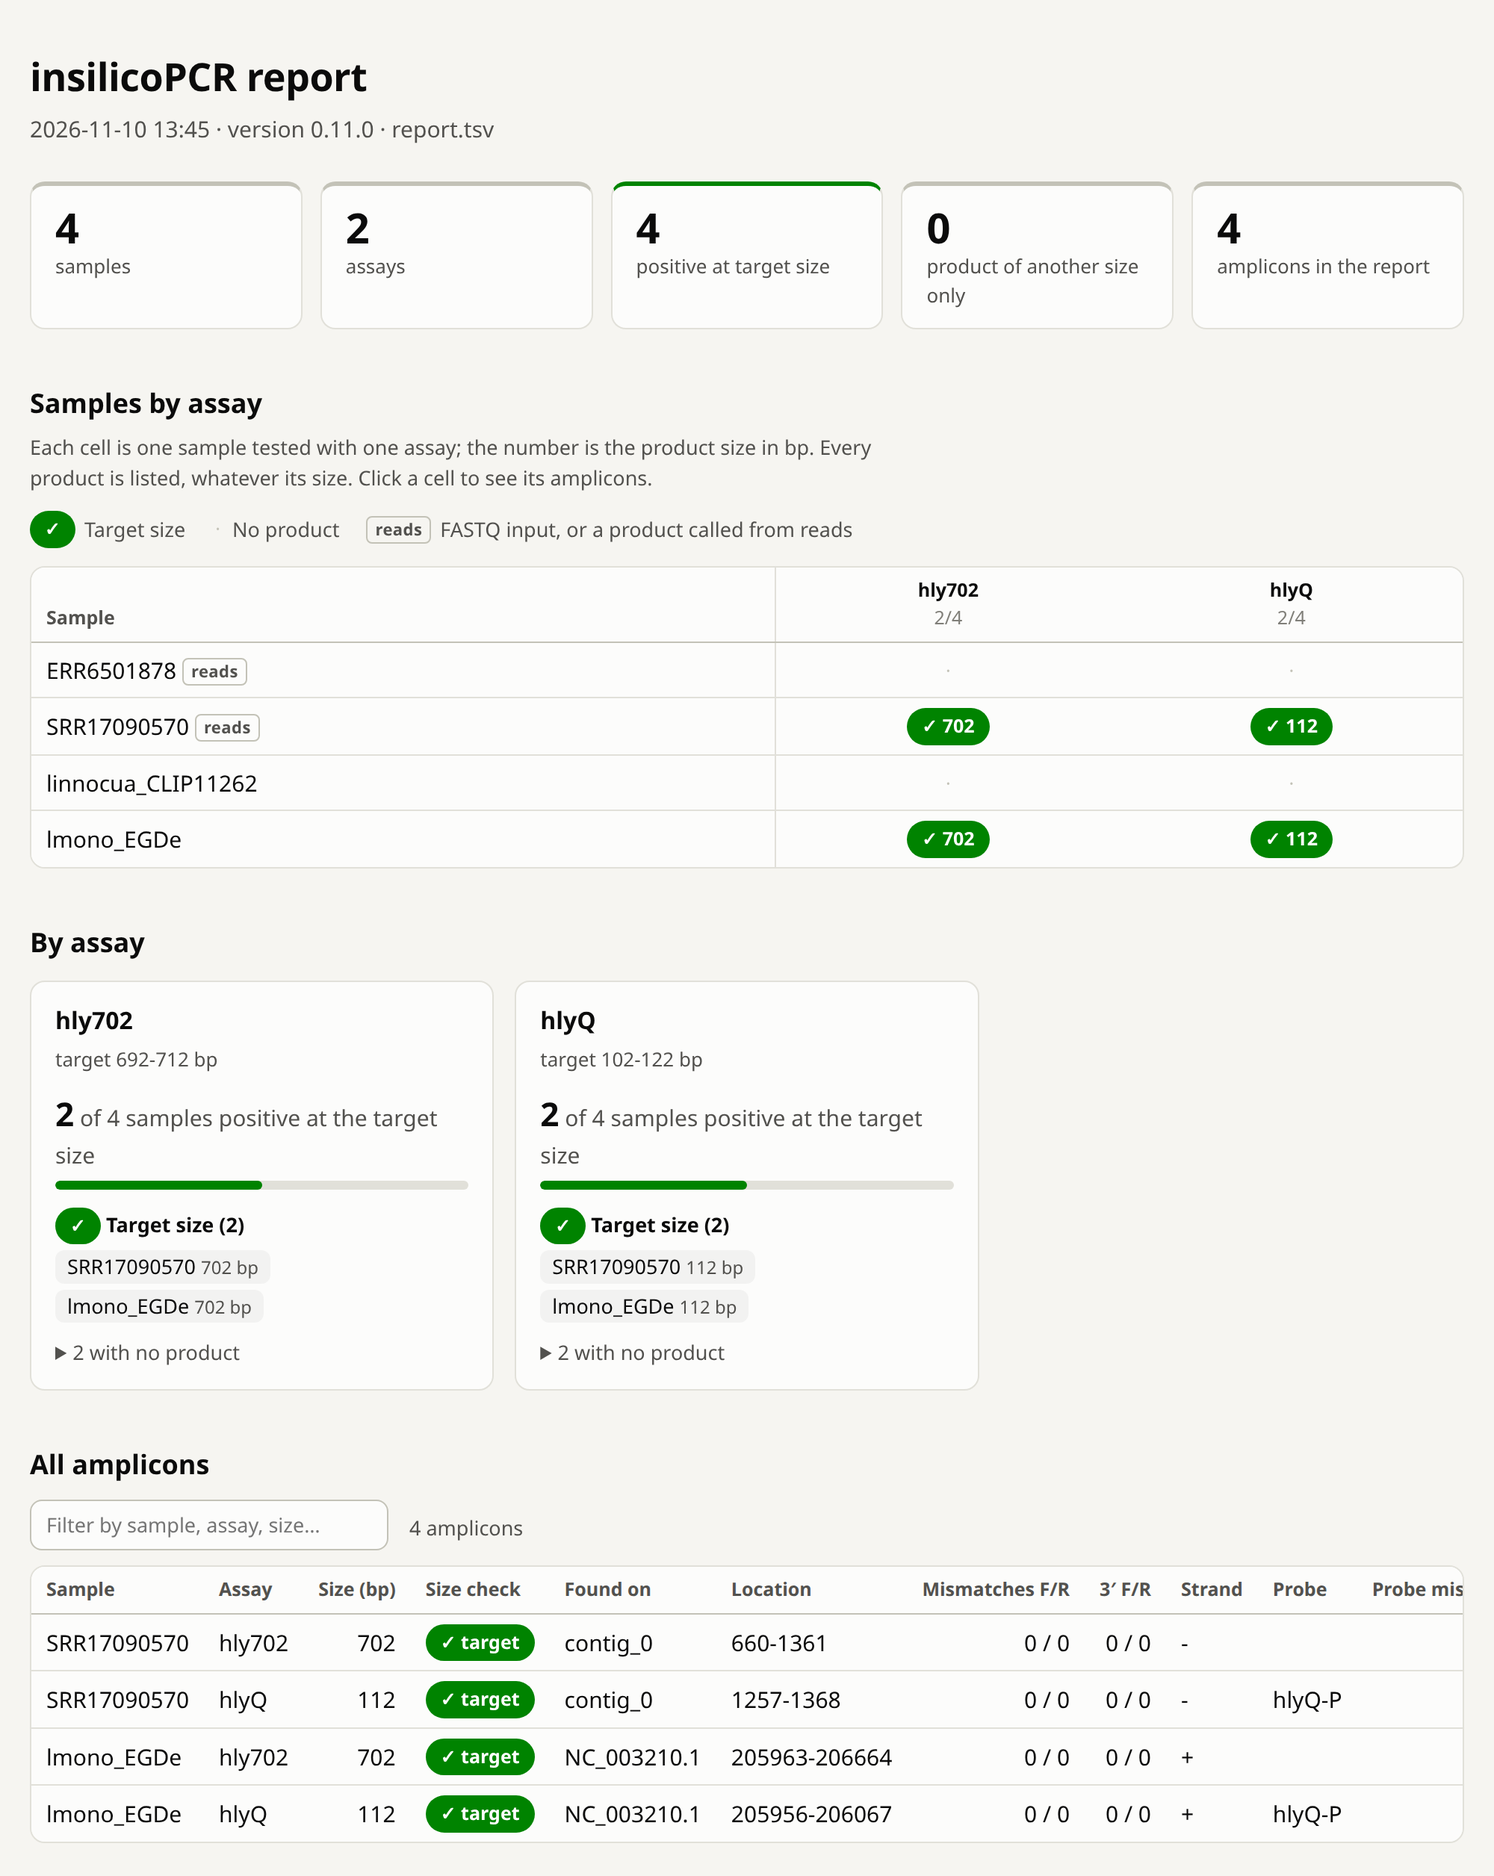
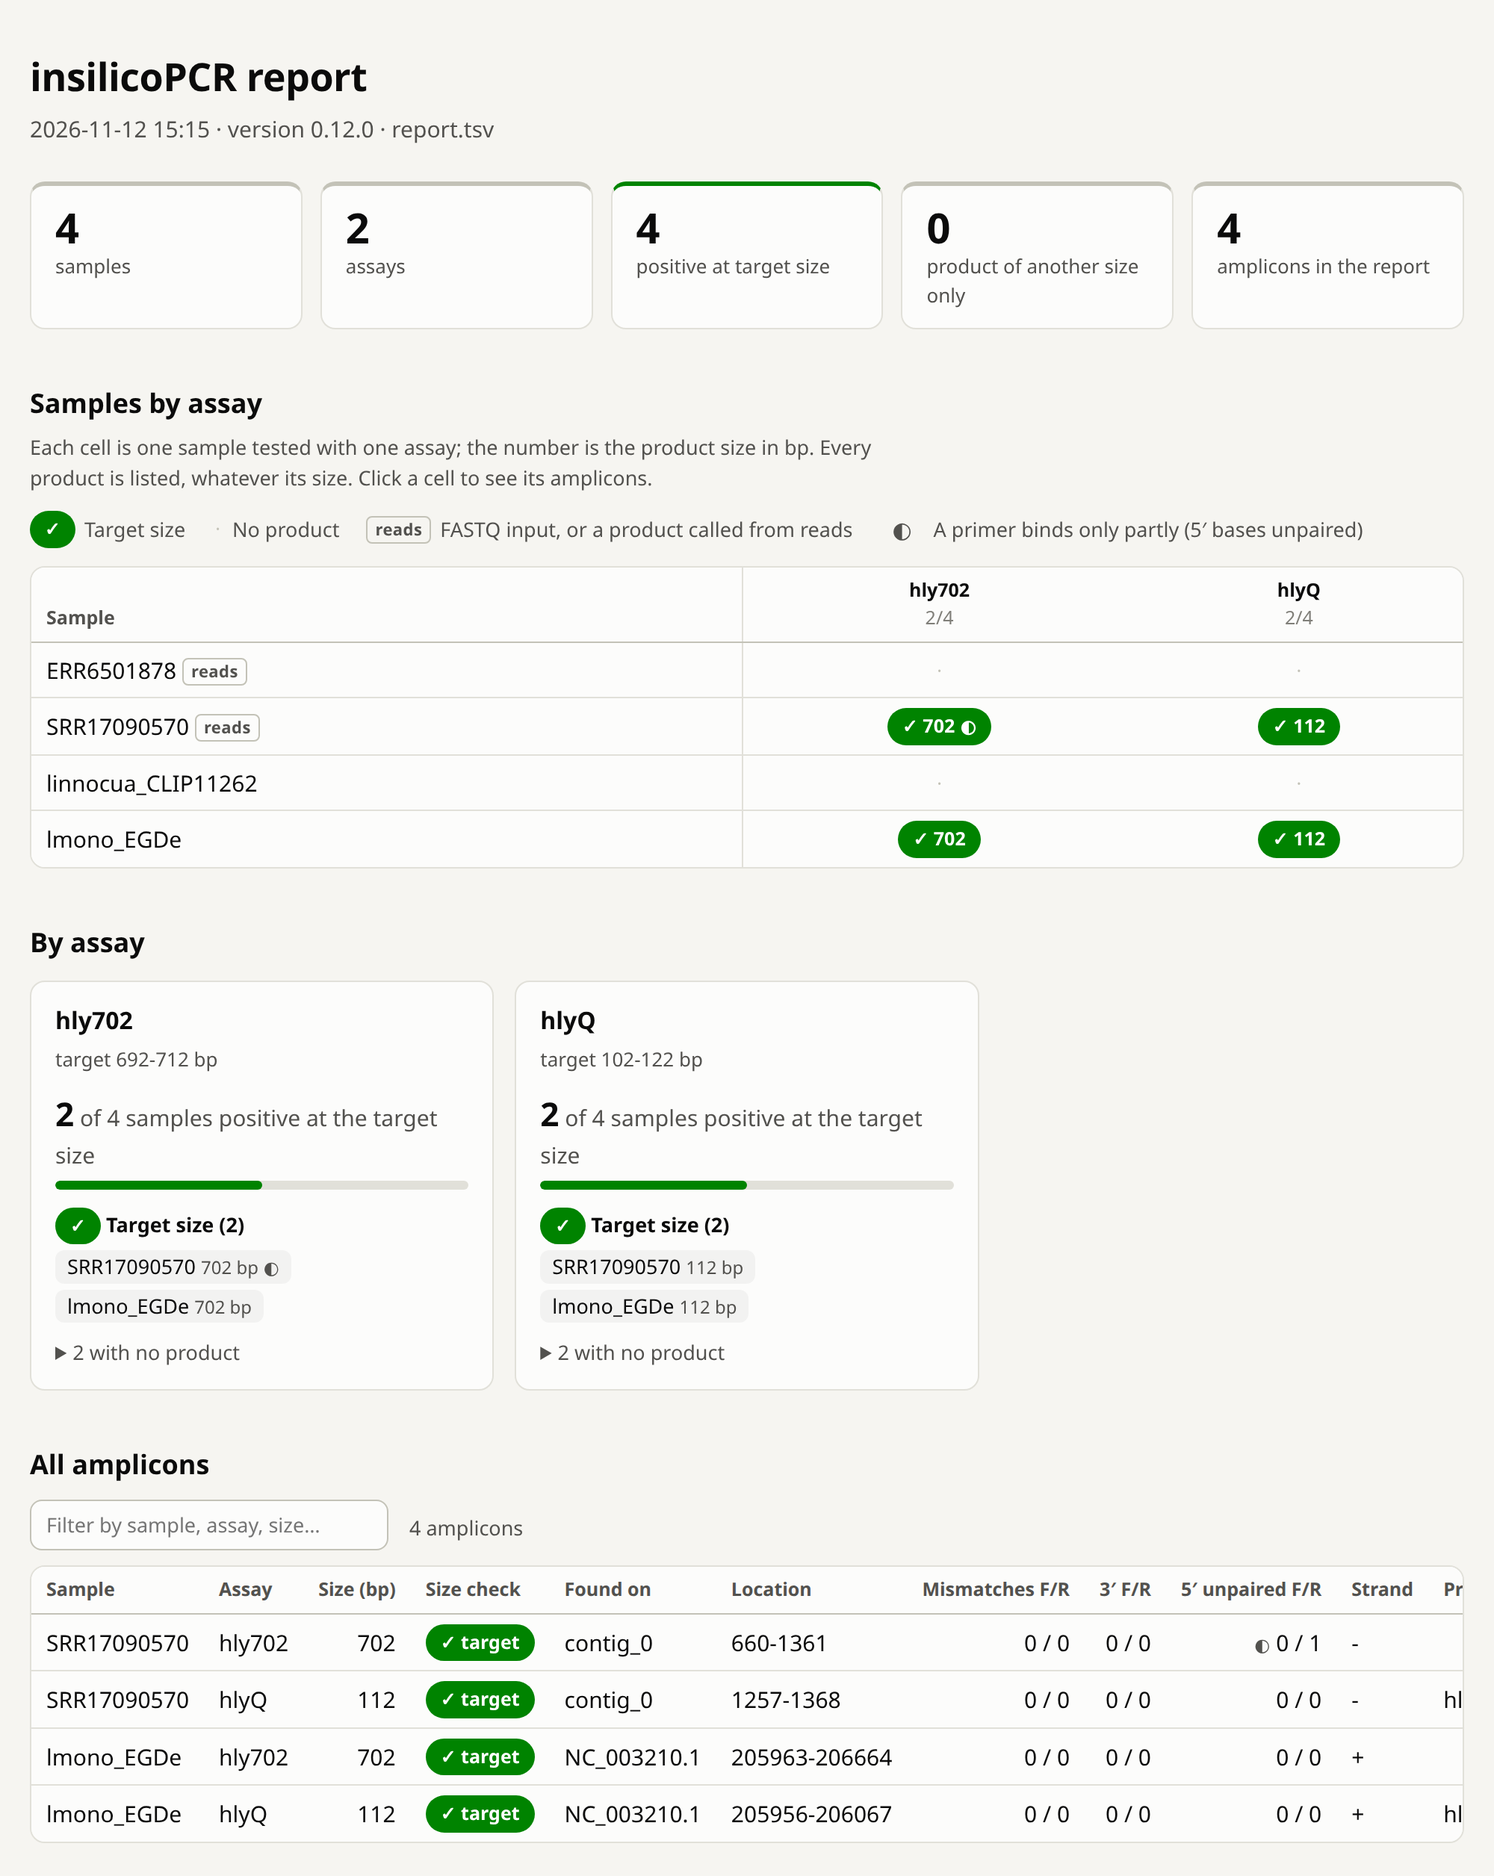
docs: bring the tutorial up to 0.12.0
Rerun the tutorial with 0.12.0 from a neutral path: the example report.tsv
and report.html gain the 5'-unaligned columns, and the HTML report picture
shows the partly bound hly702-R primer of SRR17090570 (one unpaired base at
the 5' end, the SNP the tutorial already pointed out). Products, sizes and
mismatch counts are unchanged.

diff --git a/docs/examples/tutorial/report.html b/docs/examples/tutorial/report.html
@@ -73,6 +73,8 @@ button.chip { cursor: pointer; } button.chip:hover, button.chip:focus-visible { 
 .chip.unchecked { color: var(--ink-3); min-width: 0; padding: 0; font-weight: 400; }
 .chip.none { color: var(--line-2); min-width: 0; padding: 0; font-weight: 400; }
 .chip sup { font-size: 10px; line-height: 1; margin-left: 1px; }
+.part { font-size: 12px; line-height: 1; } .key .part, .rows td .part, li .part { color: var(--ink-2); }
+.key .part { display: inline-block; min-width: 30px; text-align: center; font-size: 15px; }
 .dot { width: 6px; height: 6px; border-radius: 50%; background: currentColor; opacity: .85;
   box-shadow: 0 0 0 2px var(--surface); position: absolute; top: -3px; right: -3px; }
 .chip.target .dot, .chip.amplified .dot { background: var(--ink); }
@@ -102,7 +104,7 @@ details .names { margin-top: 6px; }
 <main>
 <header>
 <h1>insilicoPCR report</h1>
-<p class="sub">2026-11-10 13:45 · version 0.11.0 · report.tsv</p>
+<p class="sub">2026-11-12 15:15 · version 0.12.0 · report.tsv</p>
 </header>
 <section class="tiles" aria-label="Summary">
 <div class="tile"><span class="n">4</span><span class="l">samples</span></div>
@@ -114,12 +116,12 @@ details .names { margin-top: 6px; }
 <section>
 <h2>Samples by assay</h2>
 <p class="hint">Each cell is one sample tested with one assay; the number is the product size in bp. Every product is listed, whatever its size. Click a cell to see its amplicons.</p>
-<div class="legend" aria-label="Legend"><span class="key" title="Product of the size the assay is designed to give"><span class="chip target">✓</span>Target size</span><span class="key" title="No product"><span class="chip none">·</span>No product</span><span class="key"><span class="tag">reads</span>FASTQ input, or a product called from reads</span></div>
+<div class="legend" aria-label="Legend"><span class="key" title="Product of the size the assay is designed to give"><span class="chip target">✓</span>Target size</span><span class="key" title="No product"><span class="chip none">·</span>No product</span><span class="key"><span class="tag">reads</span>FASTQ input, or a product called from reads</span><span class="key" title="The product is reported, but a primer pairs with the template over part of its length only; see the 5′ unpaired column of the amplicons"><span class="part">◐</span>A primer binds only partly (5′ bases unpaired)</span></div>
 <div class="scroll"><table class="grid" id="grid">
 <thead><tr><th class="corner">Sample</th><th scope="col" title="hly702: target 692-712 bp"><span class="an">hly702</span><span class="as">2/4</span></th><th scope="col" title="hlyQ: target 102-122 bp"><span class="an">hlyQ</span><span class="as">2/4</span></th></tr></thead>
 <tbody>
 <tr data-sample="ERR6501878" data-any="0"><th scope="row">ERR6501878 <span class="tag">reads</span></th><td><span class="chip none" title="ERR6501878 · hly702: No product">·</span></td><td><span class="chip none" title="ERR6501878 · hlyQ: No product">·</span></td></tr>
-<tr data-sample="SRR17090570" data-any="1"><th scope="row">SRR17090570 <span class="tag">reads</span></th><td><button type="button" class="chip target" title="SRR17090570 · hly702: Target size&#10;702 bp (target)" data-s="SRR17090570" data-a="hly702">✓ 702</button></td><td><button type="button" class="chip target" title="SRR17090570 · hlyQ: Target size&#10;112 bp (target)" data-s="SRR17090570" data-a="hlyQ">✓ 112</button></td></tr>
+<tr data-sample="SRR17090570" data-any="1"><th scope="row">SRR17090570 <span class="tag">reads</span></th><td><button type="button" class="chip target" title="SRR17090570 · hly702: Target size&#10;702 bp (target); forward primer 18 of 18 bases, reverse primer 17 of 18 bases" data-s="SRR17090570" data-a="hly702">✓ 702<span class="part" aria-label="A primer binds only partly (5′ bases unpaired)">◐</span></button></td><td><button type="button" class="chip target" title="SRR17090570 · hlyQ: Target size&#10;112 bp (target)" data-s="SRR17090570" data-a="hlyQ">✓ 112</button></td></tr>
 <tr data-sample="linnocua_CLIP11262" data-any="0"><th scope="row">linnocua_CLIP11262</th><td><span class="chip none" title="linnocua_CLIP11262 · hly702: No product">·</span></td><td><span class="chip none" title="linnocua_CLIP11262 · hlyQ: No product">·</span></td></tr>
 <tr data-sample="lmono_EGDe" data-any="1"><th scope="row">lmono_EGDe</th><td><button type="button" class="chip target" title="lmono_EGDe · hly702: Target size&#10;702 bp (target)" data-s="lmono_EGDe" data-a="hly702">✓ 702</button></td><td><button type="button" class="chip target" title="lmono_EGDe · hlyQ: Target size&#10;112 bp (target)" data-s="lmono_EGDe" data-a="hlyQ">✓ 112</button></td></tr>
 </tbody></table></div>
@@ -133,7 +135,7 @@ details .names { margin-top: 6px; }
 <p class="count"><span class="n">2</span> of 4 samples positive at the target size</p>
 <div class="meter" role="img" aria-label="2 of 4"><span class="target" style="width:50.0%"></span></div>
 <p class="group"><span class="chip target">✓</span> Target size (2)</p>
-<ul class="names"><li title="">SRR17090570 <span class="bp">702 bp</span></li><li title="">lmono_EGDe <span class="bp">702 bp</span></li></ul>
+<ul class="names"><li title="">SRR17090570 <span class="bp">702 bp</span> <span class="part" title="A primer binds only partly (5′ bases unpaired)">◐</span></li><li title="">lmono_EGDe <span class="bp">702 bp</span></li></ul>
 <details><summary>2 with no product</summary><ul class="names muted"><li>ERR6501878</li><li>linnocua_CLIP11262</li></ul></details>
 </article>
 <article class="card">
@@ -151,19 +153,19 @@ details .names { margin-top: 6px; }
 <h2>All amplicons</h2>
 <div class="tools"><input type="search" id="rowFilter" placeholder="Filter by sample, assay, size…" aria-label="Filter amplicons"><button type="button" id="showAll" hidden>Show all</button><span id="rowCount" class="hint"></span></div>
 <div class="scroll"><table class="rows" id="rows">
-<thead><tr><th>Sample</th><th>Assay</th><th class="num">Size (bp)</th><th>Size check</th><th>Found on</th><th>Location</th><th class="num" title="Forward / reverse primer mismatches">Mismatches F/R</th><th class="num" title="Imperfections in the 3' window, forward / reverse">3′ F/R</th><th>Strand</th><th>Probe</th><th class="num">Probe mismatches</th></tr></thead>
+<thead><tr><th>Sample</th><th>Assay</th><th class="num">Size (bp)</th><th>Size check</th><th>Found on</th><th>Location</th><th class="num" title="Forward / reverse primer mismatches">Mismatches F/R</th><th class="num" title="Imperfections in the 3' window, forward / reverse">3′ F/R</th><th class="num" title="Bases at the 5' end of each primer that do not pair with the template, forward / reverse; the mismatch columns do not count them">5′ unpaired F/R</th><th>Strand</th><th>Probe</th><th class="num">Probe mismatches</th></tr></thead>
 <tbody>
-<tr data-s="SRR17090570" data-a="hly702"><td>SRR17090570</td><td>hly702</td><td class="num">702</td><td><span class="chip target">✓ target</span></td><td title="contig_0,len=2492,cov=19.8,gc=0.360,class=long/medium/unanchored,min=2,max=51,hh=0.552,caga=0.523">contig_0</td><td>660-1361</td><td class="num">0 / 0</td><td class="num">0 / 0</td><td>-</td><td></td><td class="num"></td></tr>
-<tr data-s="SRR17090570" data-a="hlyQ"><td>SRR17090570</td><td>hlyQ</td><td class="num">112</td><td><span class="chip target">✓ target</span></td><td title="contig_0,len=2492,cov=19.8,gc=0.360,class=long/medium/unanchored,min=2,max=51,hh=0.552,caga=0.523">contig_0</td><td>1257-1368</td><td class="num">0 / 0</td><td class="num">0 / 0</td><td>-</td><td>hlyQ-P</td><td class="num">0</td></tr>
-<tr data-s="lmono_EGDe" data-a="hly702"><td>lmono_EGDe</td><td>hly702</td><td class="num">702</td><td><span class="chip target">✓ target</span></td><td title="NC_003210.1 — Listeria monocytogenes EGD-e chromosome, complete genome">NC_003210.1</td><td>205963-206664</td><td class="num">0 / 0</td><td class="num">0 / 0</td><td>+</td><td></td><td class="num"></td></tr>
-<tr data-s="lmono_EGDe" data-a="hlyQ"><td>lmono_EGDe</td><td>hlyQ</td><td class="num">112</td><td><span class="chip target">✓ target</span></td><td title="NC_003210.1 — Listeria monocytogenes EGD-e chromosome, complete genome">NC_003210.1</td><td>205956-206067</td><td class="num">0 / 0</td><td class="num">0 / 0</td><td>+</td><td>hlyQ-P</td><td class="num">0</td></tr>
+<tr data-s="SRR17090570" data-a="hly702"><td>SRR17090570</td><td>hly702</td><td class="num">702</td><td><span class="chip target">✓ target</span></td><td title="contig_0,len=2492,cov=19.8,gc=0.360,class=long/medium/unanchored,min=2,max=51,hh=0.552,caga=0.523">contig_0</td><td>660-1361</td><td class="num">0 / 0</td><td class="num">0 / 0</td><td class="num" title="forward primer 18 of 18 bases, reverse primer 17 of 18 bases"><span class="part">◐</span> 0 / 1</td><td>-</td><td></td><td class="num"></td></tr>
+<tr data-s="SRR17090570" data-a="hlyQ"><td>SRR17090570</td><td>hlyQ</td><td class="num">112</td><td><span class="chip target">✓ target</span></td><td title="contig_0,len=2492,cov=19.8,gc=0.360,class=long/medium/unanchored,min=2,max=51,hh=0.552,caga=0.523">contig_0</td><td>1257-1368</td><td class="num">0 / 0</td><td class="num">0 / 0</td><td class="num" title="forward primer 19 of 19 bases, reverse primer 24 of 24 bases">0 / 0</td><td>-</td><td>hlyQ-P</td><td class="num">0</td></tr>
+<tr data-s="lmono_EGDe" data-a="hly702"><td>lmono_EGDe</td><td>hly702</td><td class="num">702</td><td><span class="chip target">✓ target</span></td><td title="NC_003210.1 — Listeria monocytogenes EGD-e chromosome, complete genome">NC_003210.1</td><td>205963-206664</td><td class="num">0 / 0</td><td class="num">0 / 0</td><td class="num" title="forward primer 18 of 18 bases, reverse primer 18 of 18 bases">0 / 0</td><td>+</td><td></td><td class="num"></td></tr>
+<tr data-s="lmono_EGDe" data-a="hlyQ"><td>lmono_EGDe</td><td>hlyQ</td><td class="num">112</td><td><span class="chip target">✓ target</span></td><td title="NC_003210.1 — Listeria monocytogenes EGD-e chromosome, complete genome">NC_003210.1</td><td>205956-206067</td><td class="num">0 / 0</td><td class="num">0 / 0</td><td class="num" title="forward primer 19 of 19 bases, reverse primer 24 of 24 bases">0 / 0</td><td>+</td><td>hlyQ-P</td><td class="num">0</td></tr>
 </tbody></table></div>
 </section>
 <section>
 <h2>Run details</h2>
 <dl class="details">
-<dt>Date</dt><dd>2026-11-10 13:45</dd>
-<dt>insilicoPCR version</dt><dd>0.11.0</dd>
+<dt>Date</dt><dd>2026-11-12 15:15</dd>
+<dt>insilicoPCR version</dt><dd>0.12.0</dd>
 <dt>Input</dt><dd>/data/tutorial/tutorial_input</dd>
 <dt>Primer file</dt><dd>/data/tutorial/listeria_assays.fasta</dd>
 <dt>Output folder</dt><dd>/data/tutorial/tutorial_results</dd>

diff --git a/docs/wiki/Tutorial-Mixed-PCR-qPCR.md b/docs/wiki/Tutorial-Mixed-PCR-qPCR.md
@@ -6,7 +6,7 @@ This tutorial walks through a complete, realistic insilicoPCR run using **public
 - a **genome assembly** (FASTA) and **raw Illumina reads** (FASTQ) as inputs,
 - a **positive control** (*Listeria monocytogenes*) and a **negative control** (*Listeria innocua*, the classic *hly*-negative near-neighbor used for exclusivity testing).
 
-The steps below use the command line from an extracted portable release; [section 7](#7-the-same-run-in-the-gui) does the same run in the GUI. Every table and picture on this page comes from running exactly these steps with version 0.11.0, and the primer file and the reports of that run are in the repository under [`docs/examples/tutorial/`](https://github.com/duceppemo/insilicoPCR/tree/master/docs/examples/tutorial).
+The steps below use the command line from an extracted portable release; [section 7](#7-the-same-run-in-the-gui) does the same run in the GUI. Every table and picture on this page comes from running exactly these steps with version 0.12.0 (the gel and GUI pictures with 0.11.0, which draws them the same), and the primer file and the reports of that run are in the repository under [`docs/examples/tutorial/`](https://github.com/duceppemo/insilicoPCR/tree/master/docs/examples/tutorial).
 
 ## 1. The assays
 
@@ -105,6 +105,7 @@ How to read it:
 - **Samples by assay** answers the question of the run. Each row is a sample, each column an assay. The two *L. monocytogenes* samples, the assembly `lmono_EGDe` and the read set `SRR17090570`, have a green cell for both assays with the product size in it: 702 bp and 112 bp. The two *L. innocua* samples have none.
 - The cells are green with a check mark because the products have the size declared in the primer file (`size=702`, `size=112`). Without the declaration they would be blue, "amplified", and the size would be yours to check; a product of another size would be outlined in red and not counted as positive.
 - The `reads` tag marks the two samples given as FASTQ.
+- The `◐` next to `SRR17090570`'s 702 bp product says a primer of that product binds only partly: in **All amplicons**, `5′ unpaired F/R` reads `0 / 1`, one base at the 5' end of `hly702-R` does not pair with this strain (see the last point of [section 5](#5-the-consolidated-report)). The mark hides nothing; it points at products worth a second look.
 - **By assay** counts the positive samples for each assay (2 of 4) and names them.
 - **All amplicons** lists every row of `report.tsv`; clicking a cell of the grid filters it to that sample and assay.
 
@@ -114,12 +115,12 @@ See [HTML report](Reports#html-report) for every mark the page can show.
 
 `tutorial_results/consolidated_report/report.tsv` holds the same four amplicons as a table ([the file from this run](https://github.com/duceppemo/insilicoPCR/blob/master/docs/examples/tutorial/report.tsv); columns abridged here):
 
-| Sample | Gene | GenomeLocation | AmpliconSize | Contig | Fwd/Rev mismatches | Strand | Probe | ProbeMismatches | SizeCheck |
-|---|---|---|---|---|---|---|---|---|---|
-| SRR17090570 | hly702 | 660-1361 | **702** | contig_0 (Tadpole) | 0 / 0 | - | | | target |
-| SRR17090570 | hlyQ | 1257-1368 | **112** | contig_0 (Tadpole) | 0 / 0 | - | hlyQ-P | 0 | target |
-| lmono_EGDe | hly702 | 205963-206664 | **702** | NC_003210.1 | 0 / 0 | + | | | target |
-| lmono_EGDe | hlyQ | 205956-206067 | **112** | NC_003210.1 | 0 / 0 | + | hlyQ-P | 0 | target |
+| Sample | Gene | GenomeLocation | AmpliconSize | Contig | Fwd/Rev mismatches | Strand | Probe | ProbeMismatches | Fwd/Rev 5' unaligned | SizeCheck |
+|---|---|---|---|---|---|---|---|---|---|---|
+| SRR17090570 | hly702 | 660-1361 | **702** | contig_0 (Tadpole) | 0 / 0 | - | | | 0 / **1** | target |
+| SRR17090570 | hlyQ | 1257-1368 | **112** | contig_0 (Tadpole) | 0 / 0 | - | hlyQ-P | 0 | 0 / 0 | target |
+| lmono_EGDe | hly702 | 205963-206664 | **702** | NC_003210.1 | 0 / 0 | + | | | 0 / 0 | target |
+| lmono_EGDe | hlyQ | 205956-206067 | **112** | NC_003210.1 | 0 / 0 | + | hlyQ-P | 0 | 0 / 0 | target |
 
 How to read it:
 
@@ -129,7 +130,7 @@ How to read it:
 - The *hly* coordinates from the read samples differ from the EGD-e coordinates because they are positions on the Tadpole-assembled contig, not on a reference genome.
 - `Strand` is `-` for the read sample: Tadpole happened to assemble the *hly* region in the opposite orientation, so the assay matched the reverse strand — a reminder that assays are detected on either strand.
 - Neither *L. innocua* sample produces a row: the primers have no acceptable binding sites. **An empty result for the negative control is the expected outcome.** (You may notice a harmless `Warning: [blastn] Query is Empty!` in the console: baiting the *L. innocua* reads with *hly* primers catches nothing, so there is no assembly to search.)
-- Bonus insight: this *L. monocytogenes* strain carries a single SNP at position 4 (from the 5' end) of `hly702-R`, visible in `detailed_report/SRR17090570/SRR17090570.tsv` as a 5'-trimmed alignment. 5'-proximal mismatches barely affect priming, so the hit is accepted (`--5p-truncation`, default 5) — exactly what a real PCR would do.
+- Bonus insight: this *L. monocytogenes* strain carries a single SNP at position 4 (from the 5' end) of `hly702-R`. BLAST leaves the first four bases of the primer out of its alignment (visible in `detailed_report/SRR17090570/SRR17090570.tsv`), and `Reverse5PrimeUnaligned` counts the one of them that does not pair: `1`. 5'-proximal mismatches barely affect priming, so the hit is accepted (`--5p-truncation`, default 5) and the mismatch columns stay at `0` — exactly what a real PCR would do.
 
 ## 6. The synthetic gel
 

diff --git a/docs/examples/tutorial/README.md b/docs/examples/tutorial/README.md
@@ -1,6 +1,6 @@
 # Tutorial example files
 
-The primer file and the reports of the [tutorial](https://github.com/duceppemo/insilicoPCR/wiki/Tutorial-Mixed-PCR-qPCR), from a run of insilicoPCR 0.11.0 on its four public samples with default settings.
+The primer file and the reports of the [tutorial](https://github.com/duceppemo/insilicoPCR/wiki/Tutorial-Mixed-PCR-qPCR), from a run of insilicoPCR 0.12.0 on its four public samples with default settings.
 
 | File | What it is |
 |---|---|
